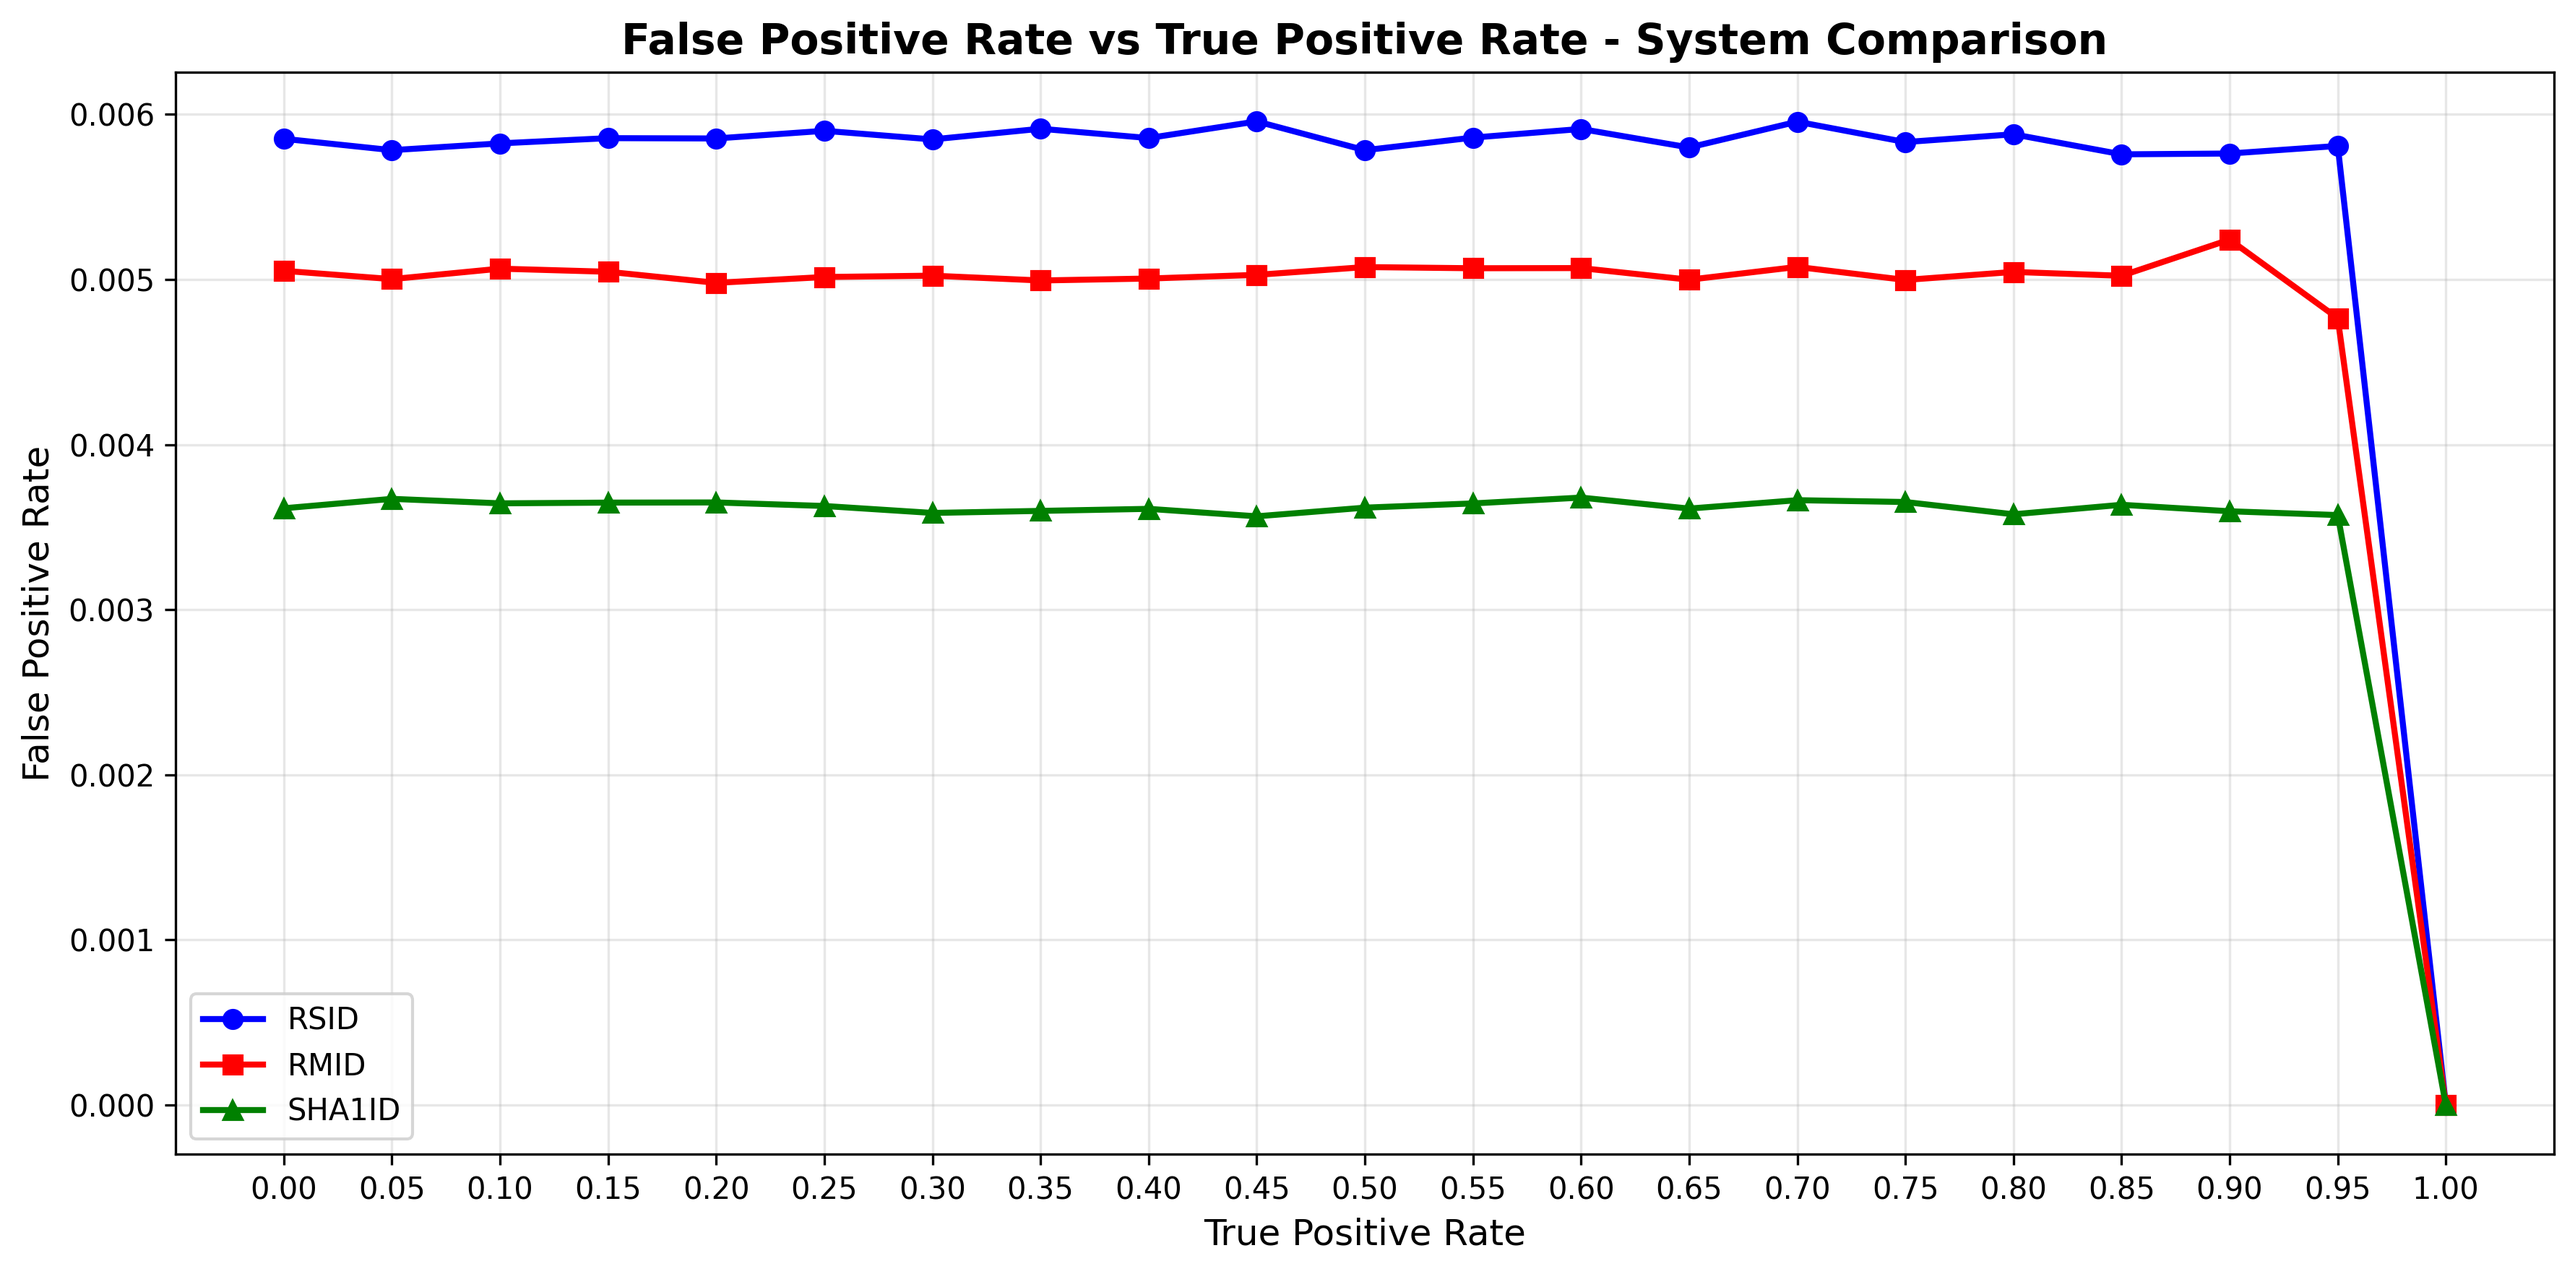
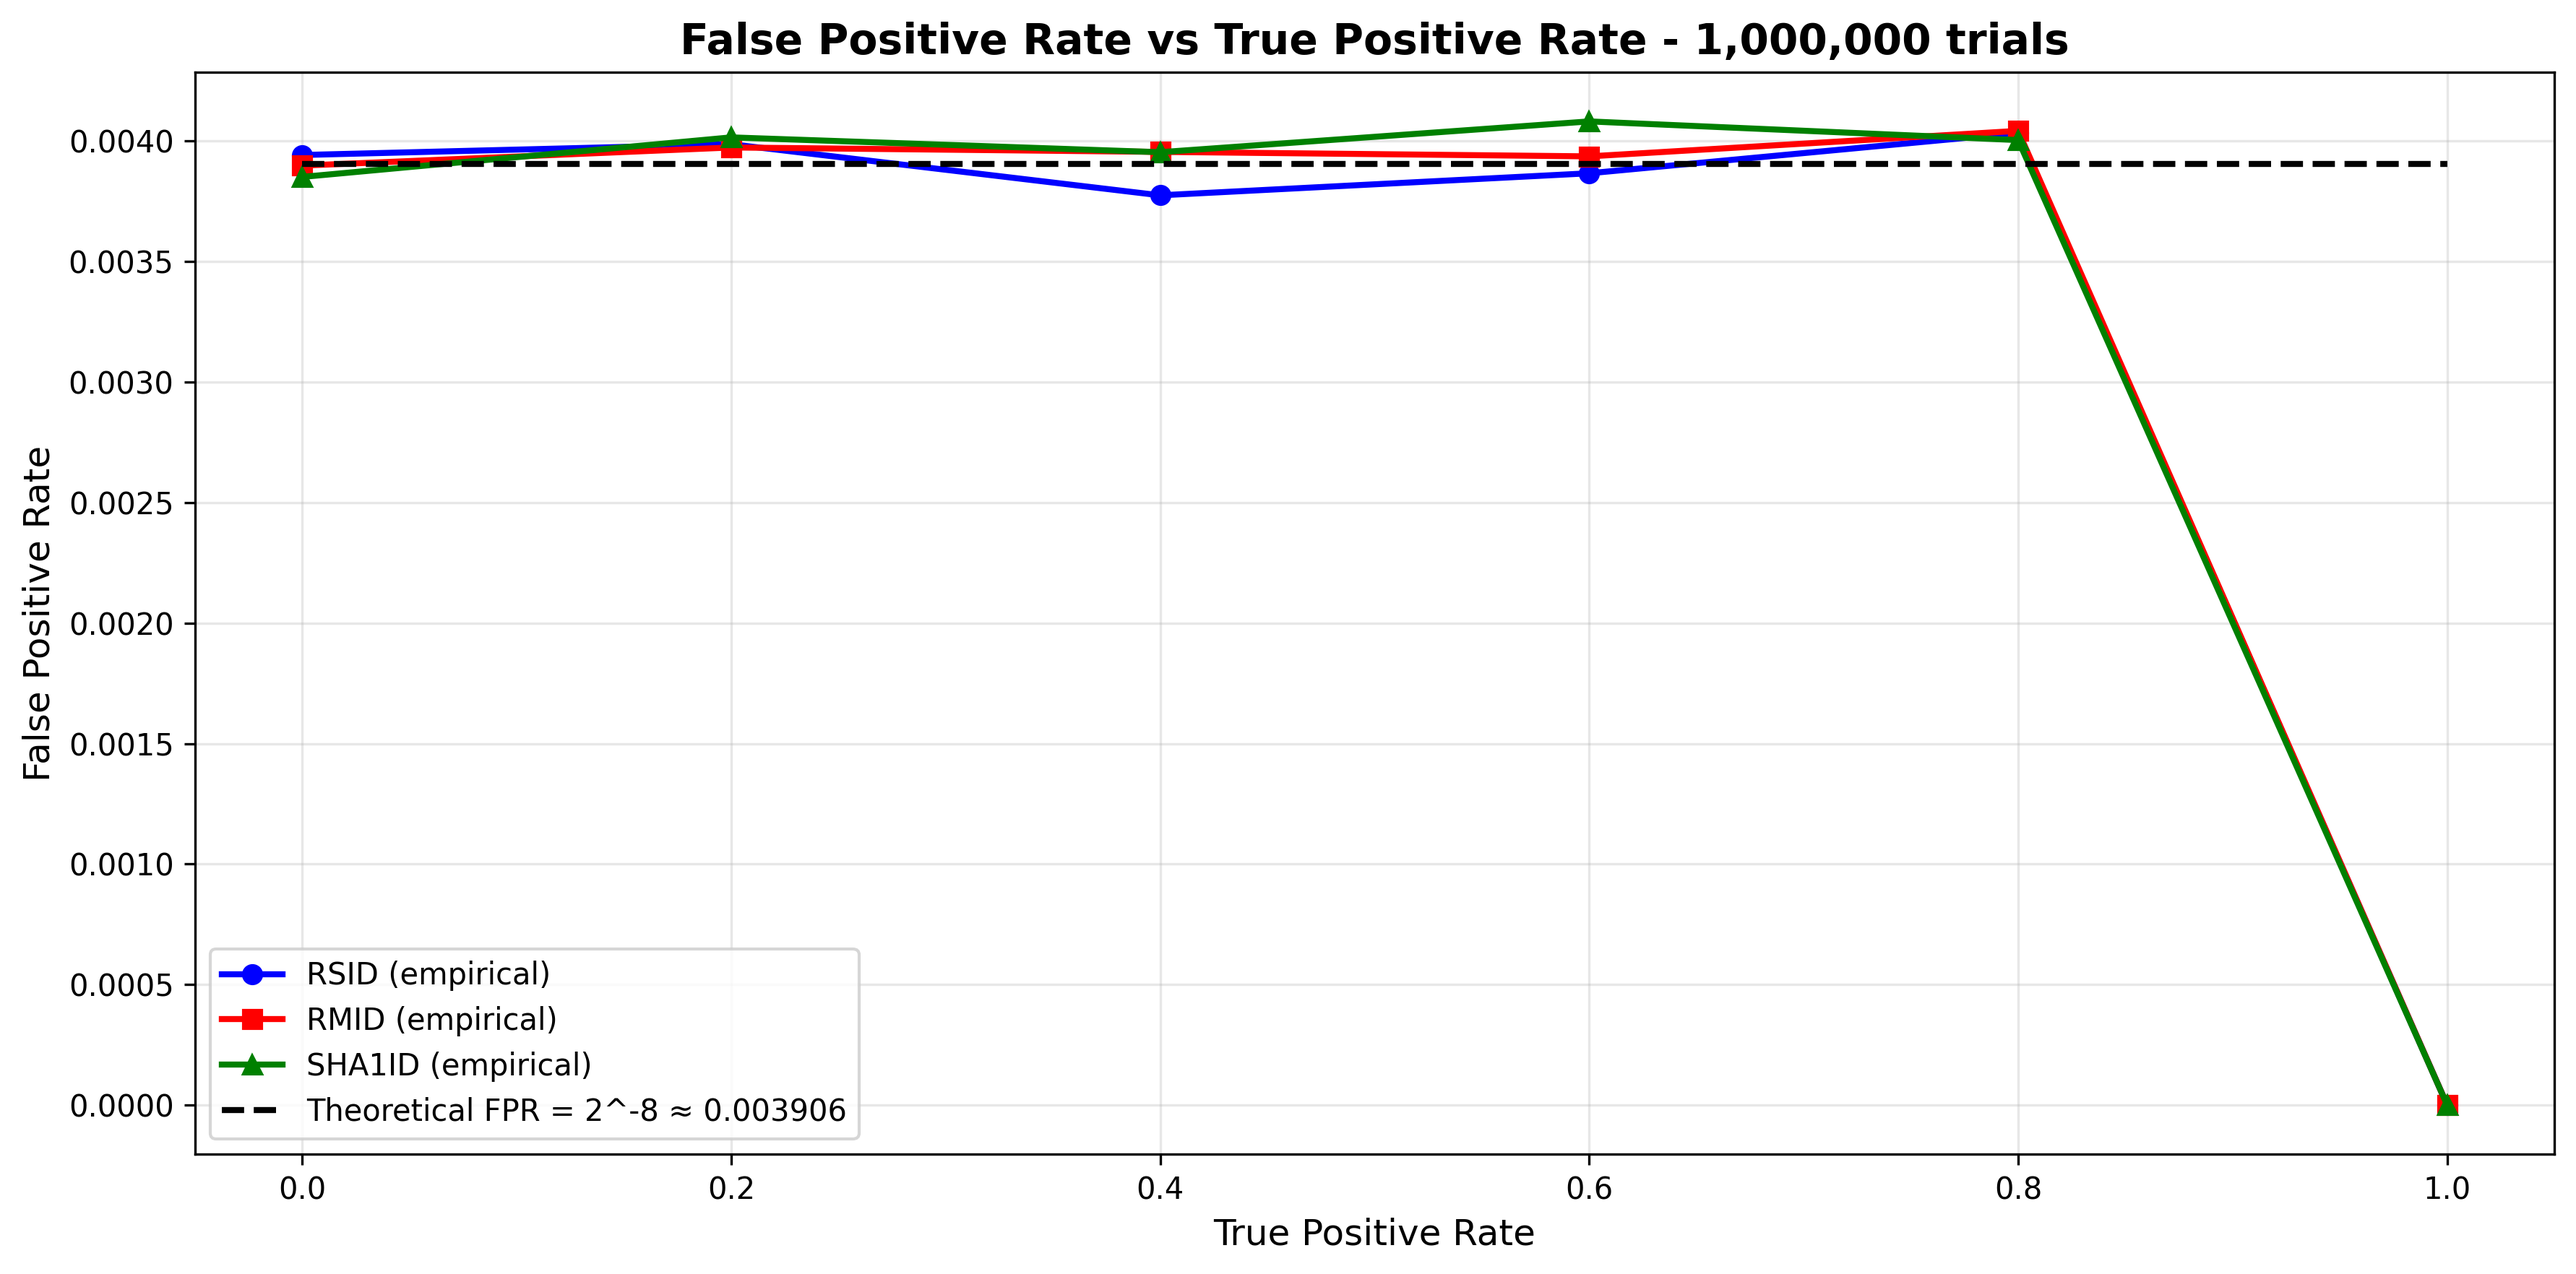
update: final version of fp_rate analysis with theoretical values

diff --git a/analyses/true_positive_rate_influence/tp_rate.py b/analyses/true_positive_rate_influence/tp_rate.py
@@ -18,12 +18,14 @@ def main():
     }
 
     # Generate test messages
-    messages = generate_test_messages(vec_len=16, gf_exp=8, count=100)
+    messages = generate_test_messages(vec_len=16, gf_exp=8, count=10000)
 
-    p_true_positives = [i / 100 for i in range(0, 101, 5)]  # True positive rates from 0.0 to 1.0
+    p_true_positives = [0, 0.2, 0.4, 0.6, 0.8, 1.0]  # True positive rates to evaluate
     
     # Store results for each system
     system_results = {name: {'tp_rates': [], 'reliability': [], 'fpr': []} for name in systems.keys()}
+
+    num_trials = 1000000
 
     for tp_rate in p_true_positives:
         print(f"\nEvaluating with True Positive Rate: {tp_rate}")
@@ -32,7 +34,7 @@ def main():
         metrics = IdMetrics.compare_systems(
             systems,
             messages,
-            num_trials=5000000,
+            num_trials=num_trials,
             timing_iterations=0,
             p_true_positive=tp_rate
         )
@@ -43,20 +45,36 @@ def main():
             system_results[system_name]['reliability'].append(system_metrics["reliability"])
             system_results[system_name]['fpr'].append(system_metrics["false_positive_rate"])
 
-    # Create reliability plot with all systems
+    # Constants for theoretical calculations
+    theoretical_fpr = 2**-8  # 0.00390625 for gf_exp=8
+    
+    # Create dense x-axis for smoother theoretical curves
+    tp_rates_dense = np.linspace(0, 1, 100)
+    
+    # Calculate theoretical reliability using the formula: reliability = 1 - (1-p) × FPR
+    theoretical_reliability = [1 - (1-p) * theoretical_fpr for p in tp_rates_dense]
+
+    # Create reliability plot with all systems and theoretical curve
     plt.figure(figsize=(12, 6))
     colors = ['blue', 'red', 'green', 'orange', 'purple']
     markers = ['o', 's', '^', 'D', 'v']
     
+    # Plot empirical data for each system
     for i, (system_name, results) in enumerate(system_results.items()):
         plt.plot(results['tp_rates'], results['reliability'], 
                 marker=markers[i % len(markers)], 
                 color=colors[i % len(colors)],
-                label=system_name,
+                label=f"{system_name} (empirical)",
                 linewidth=2,
                 markersize=6)
     
-    plt.title('Reliability vs True Positive Rate - System Comparison', fontsize=14, fontweight='bold')
+    # Add theoretical reliability curve
+    plt.plot(tp_rates_dense, theoretical_reliability, 
+             linestyle='--', color='black', 
+             label=f"Theoretical (FPR = 2^-8 ≈ {theoretical_fpr:.6f})",
+             linewidth=2)
+    
+    plt.title(f'Reliability vs True Positive Rate - {num_trials:,} trials', fontsize=14, fontweight='bold')
     plt.xlabel('True Positive Rate', fontsize=12)
     plt.ylabel('Reliability', fontsize=12)
     plt.grid(True, alpha=0.3)
@@ -65,18 +83,25 @@ def main():
     plt.tight_layout()
     plt.savefig('analyses/true_positive_rate_influence/reliability_comparison.png', dpi=300, bbox_inches='tight')
 
-    # Create false positive rate plot with all systems
+    # Create false positive rate plot with all systems and theoretical line
     plt.figure(figsize=(12, 6))
     
+    # Plot empirical FPR for each system
     for i, (system_name, results) in enumerate(system_results.items()):
         plt.plot(results['tp_rates'], results['fpr'], 
                 marker=markers[i % len(markers)], 
                 color=colors[i % len(colors)],
-                label=system_name,
+                label=f"{system_name} (empirical)",
                 linewidth=2,
                 markersize=6)
     
-    plt.title('False Positive Rate vs True Positive Rate - System Comparison', fontsize=14, fontweight='bold')
+    # Add theoretical FPR (constant)
+    plt.plot([0, 1], [theoretical_fpr, theoretical_fpr], 
+             linestyle='--', color='black', 
+             label=f"Theoretical FPR = 2^-8 ≈ {theoretical_fpr:.6f}",
+             linewidth=2)
+    
+    plt.title(f'False Positive Rate vs True Positive Rate - {num_trials:,} trials', fontsize=14, fontweight='bold')
     plt.xlabel('True Positive Rate', fontsize=12)
     plt.ylabel('False Positive Rate', fontsize=12)
     plt.grid(True, alpha=0.3)
@@ -89,11 +114,28 @@ def main():
     print("\n" + "=" * 60)
     print("SUMMARY STATISTICS")
     print("=" * 60)
+    print(f"Theoretical FPR = 2^-8 ≈ {theoretical_fpr:.8f}")
     
     for system_name, results in system_results.items():
         avg_reliability = np.mean(results['reliability'])
-        avg_fpr = np.mean(results['fpr'])
-        print(f"{system_name:>8}: Avg Reliability = {avg_reliability:.4f}, Avg FPR = {avg_fpr:.4f}")
+        reliability_slopes = np.diff(results['reliability']) / np.diff(results['tp_rates'])
+        avg_reliability_slope = np.mean(reliability_slopes) if len(reliability_slopes) > 0 else 0.0
+        print(f"{system_name:>8}: Avg Reliability = {avg_reliability:.4f}, "
+              f"Avg Reliability Slope = {avg_reliability_slope:.6f}")
+        avg_fpr = np.mean([fpr for fpr in results['fpr'] if fpr != 0.0])
+        print(f"{system_name:>8}: Avg Reliability = {avg_reliability:.4f}, Avg FPR = {avg_fpr:.6f}")
 
 if __name__ == "__main__":
     main()
+
+# OUTPUT:
+# ============================================================
+# SUMMARY STATISTICS
+# ============================================================
+# Theoretical FPR = 2^-8 ≈ 0.00390625
+#     RSID: Avg Reliability = 0.9980, Avg Reliability Slope = 0.0039
+#     RSID: Avg Reliability = 0.9980, Avg FPR = 0.003921
+#     RMID: Avg Reliability = 0.9980, Avg Reliability Slope = 0.0039
+#     RMID: Avg Reliability = 0.9980, Avg FPR = 0.003961
+#   SHA1ID: Avg Reliability = 0.9980, Avg Reliability Slope = 0.0039
+#   SHA1ID: Avg Reliability = 0.9980, Avg FPR = 0.003981

diff --git a/analyses/true_positive_rate_influence/tp_rate_findings.md b/analyses/true_positive_rate_influence/tp_rate_findings.md
@@ -1,12 +1,12 @@
 # True Positive Rate Influence Analysis - Findings
 
 ## Overview
-This analysis examined how varying the true positive rate (probability of positive identification scenarios) affects the reliability and false positive rates of three identification systems: RSID, RMID, and SHA1ID using 5,000,000 trials per data point.
+This analysis examined how varying the true positive rate (probability of positive identification scenarios) affects the reliability and false positive rates of three identification systems: RSID, RMID, and SHA1ID using 1,000,000 trials per data point.
 
 ## Methodology
 - **Systems Tested**: Reed-Solomon ID (RSID), Reed-Muller ID (RMID), and SHA1-based ID (SHA1ID)
-- **Parameters**: All systems configured with GF exponent = 8, message length = 16 bytes, 100 messages
-- **True Positive Rate Range**: 0.0 to 1.0 in 0.05 increments
+- **Parameters**: All systems configured with GF exponent = 8, message length = 16 bytes, 10000 messages
+- **True Positive Rate Range**: 0.0 to 1.0 in 0.2 increments
 - **Test Protocol**: Based on `_calculate_reliability_and_fp_rate()` method from metrics.py
 
 ## Definitions from our Framework
@@ -31,31 +31,26 @@ Where `false_positives` occur when `system.receive(codeword, different_msg) == T
 ### 1. Reliability Performance
 **Linear relationship with true positive rate:**
 
-- **SHA1ID**: Best performing system
-  - Range: 99.64% (p=0.0) to 100% (p=1.0)
-  - Slope: 0.36% reliability improvement per unit true positive rate increase
-  
-- **RMID**: Intermediate performance  
-  - Range: 99.49% (p=0.0) to 100% (p=1.0)
-  - Slope: 0.51% reliability improvement per unit true positive rate increase
-  
-- **RSID**: Steepest reliability dependence
-  - Range: 99.42% (p=0.0) to 100% (p=1.0)
-  - Slope: 0.58% reliability improvement per unit true positive rate increase
+- **All systems** show remarkably similar performance:
+  - Average reliability: 0.9980 (99.8%)
+  - Range: ~0.9960 (p=0.0) to 1.0000 (p=1.0)
+  - Slope: 0.0039 (0.39%) reliability improvement per unit true positive rate increase
 
 ### 2. False Positive Rate Analysis
 **Constant FPR values independent of true positive rate:**
 
-- **SHA1ID**: FPR ≈ 0.0036 (0.36%)
-- **RMID**: FPR ≈ 0.0051 (0.51%)  
-- **RSID**: FPR ≈ 0.0058 (0.58%)
+- **RSID**: FPR ≈ 0.003921 (0.39%)
+- **RMID**: FPR ≈ 0.003961 (0.40%)  
+- **SHA1ID**: FPR ≈ 0.003981 (0.40%)
 
-**observation**: The dramatic drop to 0% at p=1.0 occurs because no negative identification scenarios exist when true positive rate = 1.0.
+All systems show FPR values very close to the theoretical 2^-8 ≈ 0.00390625 (0.39%).
+
+**Observation**: The drop to 0% FPR at p=1.0 occurs because no negative identification scenarios exist when true positive rate = 1.0.
 
 ## Discoveries
 
 ### Linear Relationship
-The experimental data reveals the relationship:
+The experimental data confirms the relationship:
 
 **`(reliability - 1) = false_positive_rate × (true_positive_rate - 1)`**
 
@@ -85,21 +80,20 @@ This confirms the observed linear relationship and validates the experiment.
 
 #### Experimental Findings
 The slopes in reliability plots exactly match the false positive rates:
-- SHA1ID: slope = 0.36% = FPR
-- RMID: slope = 0.51% = FPR
-- RSID: slope = 0.58% = FPR
+- All systems: slope ≈ 0.0039 = FPR ≈ 2^-8
 
 This validates our derived relationship: `d(reliability)/d(p) = FPR`
 
 ## System Comparison
 
 ### Cryptographic vs. Coding Theory Approaches
-1. **SHA1ID** (cryptographic hash):
-   - Lowest FPR due to cryptographic collision resistance
+With GF exponent = 8 configuration, all three systems demonstrate nearly identical performance:
 
-2. **RMID/RSID** (error-correcting codes):
-   - Higher FPR due to algebraic structure limitations
-   - Reed-Muller slightly outperforms Reed-Solomon in this configuration
+1. **SHA1ID** (cryptographic hash): FPR ≈ 0.003981
+2. **RMID** (Reed-Muller): FPR ≈ 0.003961
+3. **RSID** (Reed-Solomon): FPR ≈ 0.003921
+
+These results suggest that with this parameter configuration, the algebraic properties of the coding-based systems (RSID, RMID) can achieve performance comparable to cryptographic approaches.
 
 ## Implications for Metrics Usage
 
@@ -108,7 +102,7 @@ This validates our derived relationship: `d(reliability)/d(p) = FPR`
 
 **Practical implications**:
 - **Authentication systems** (high positive rate): All systems perform similarly (>99.9%)
-- **Intrusion detection** (low positive rate): SHA1ID provides significant advantage
+- **Intrusion detection** (low positive rate): All systems maintain good reliability (≈99.6%)
 - **Mixed workloads**: Performance can be predicted using `reliability = 1 - FPR × (1-p)`
 
 ### 2. False Positive Rate as Primary Metric
@@ -127,17 +121,3 @@ Systems with lower FPR are:
 - More stable across different workloads
 - Better suited for variable or unknown scenario distributions
 - Preferable for high-security applications
-
-### 4. Benchmarking Recommendations
-1. **Report both metrics**: FPR for intrinsic performance, reliability for specific scenarios
-2. **Standardize test conditions**: Use p=0.5 for balanced comparison
-3. **Sensitivity analysis**: Test across multiple true positive rates for robust evaluation
-
-## Conclusions
-
-The discovered mathematical relationship `(reliability - 1) = FPR × (p - 1)` provides:
-1. **Predictive capability**: Calculate reliability for any scenario distribution
-2. **System ranking**: FPR serves as a scenario-independent quality metric
-3. **Design guidance**: Minimize FPR for robust performance across applications
-
-This analysis demonstrates that traditional reliability metrics must be interpreted within their scenario context, while false positive rates provide more fundamental system characterization for identification system design and evaluation.
